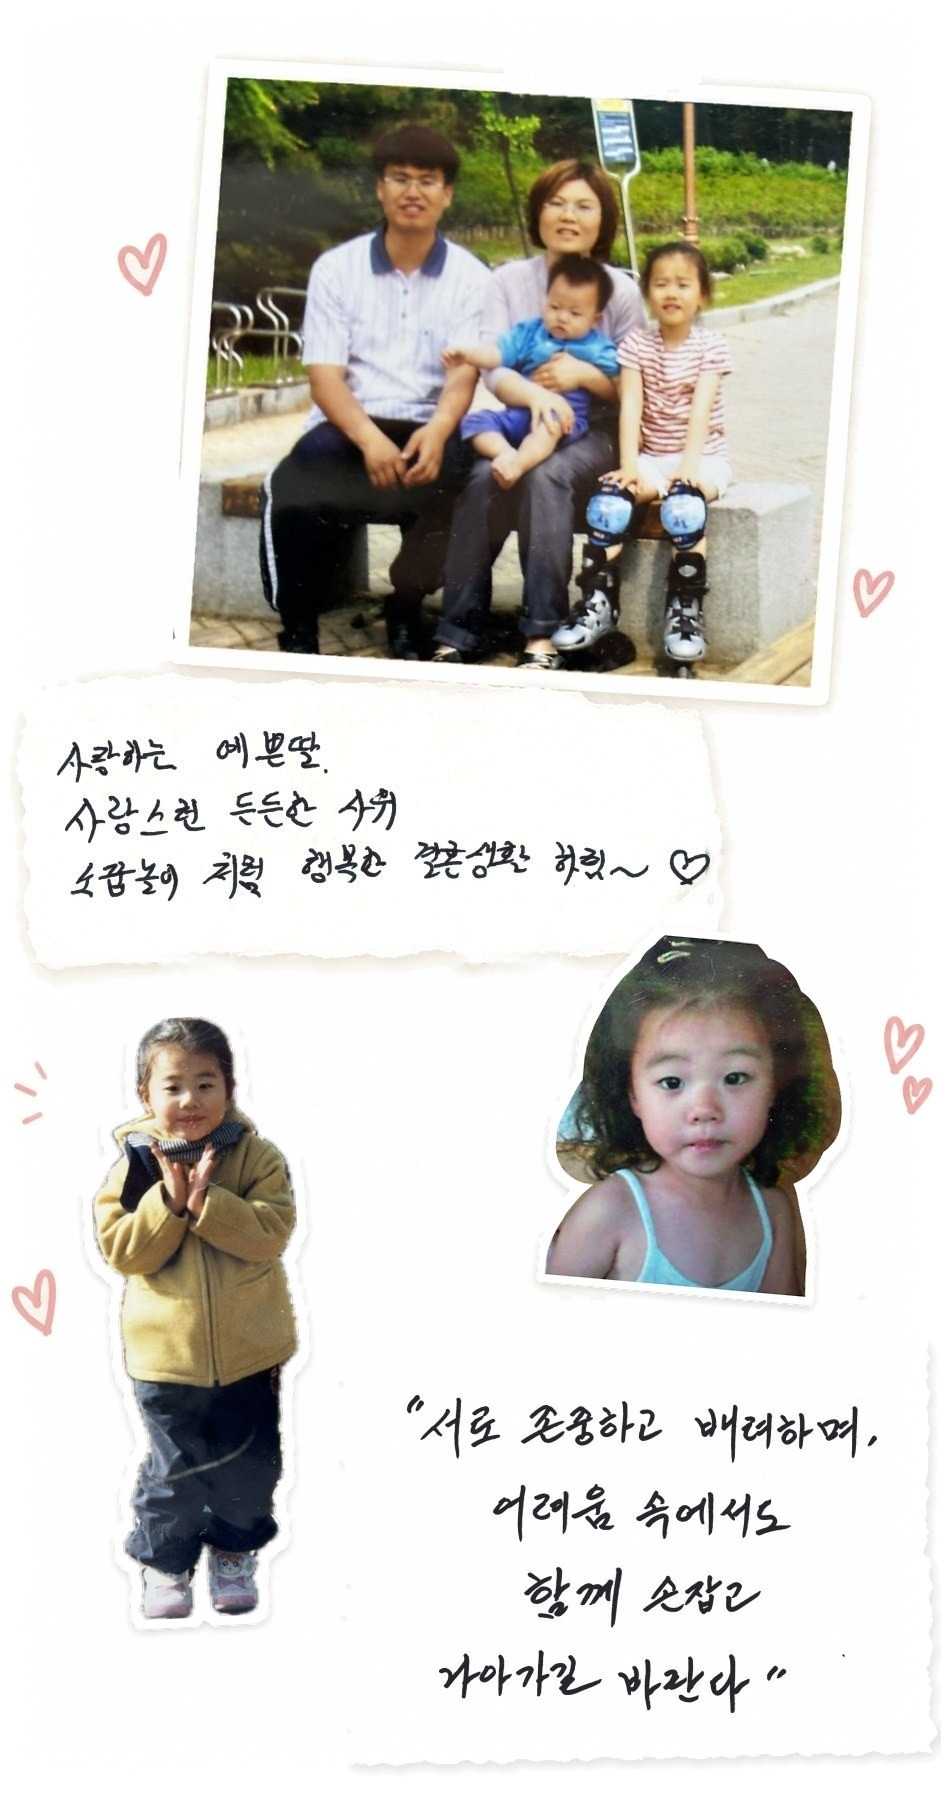
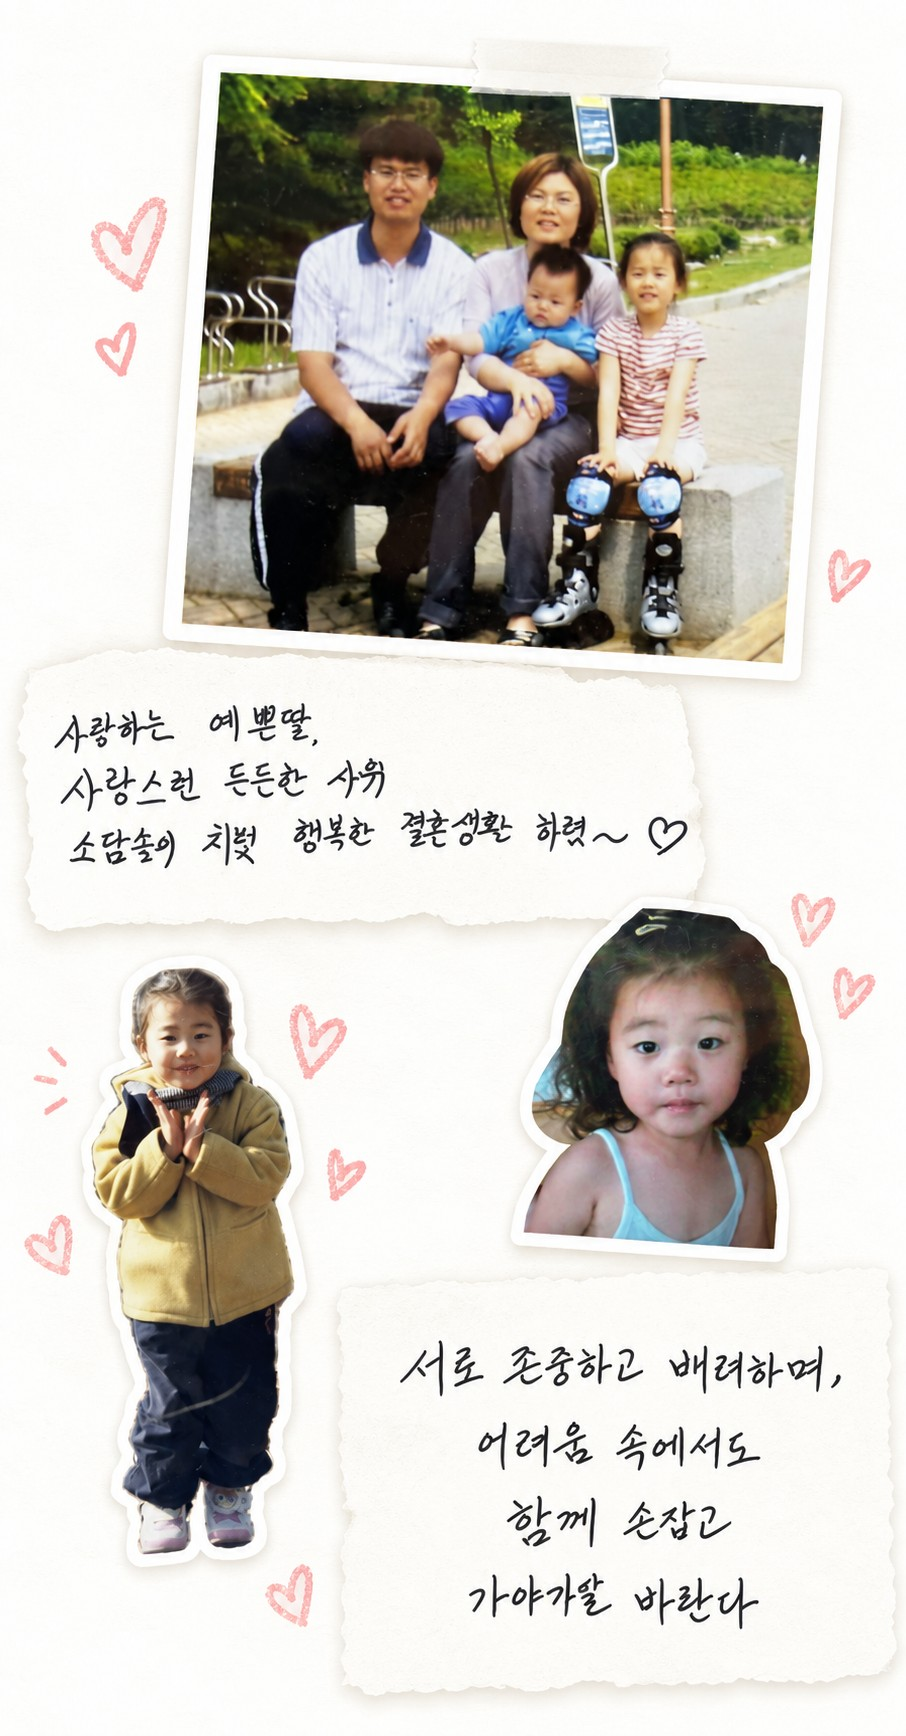
신부 부모님 편지 이미지 교체
Claude-Session: https://claude.ai/code/session_01CnBoA3hjjhMSJLiEhEvSAC

diff --git a/index.html b/index.html
@@ -124,7 +124,7 @@
       <p class="letter__parents">장영기 &amp; 이미진의 첫째 딸</p>
       <h2 class="letter__name"><span class="letter__role letter__role--bride">신부</span> 장이화</h2>
     </header>
-    <img class="letter__img" src="images/letter-bride.jpg?v=dev" width="941" height="1802" loading="lazy"
+    <img class="letter__img" src="images/letter-bride.jpg?v=dev" width="906" height="1736" loading="lazy"
          alt="신부 부모님의 손글씨 편지와 어린 시절 가족사진: 사랑하는 예쁜 딸, 사랑스런 든든한 사위, 소꿉놀이처럼 행복한 결혼생활 하렴. 서로 존중하고 배려하며 어려움 속에서도 함께 손잡고 나아가길 바란다">
   </section>
 
